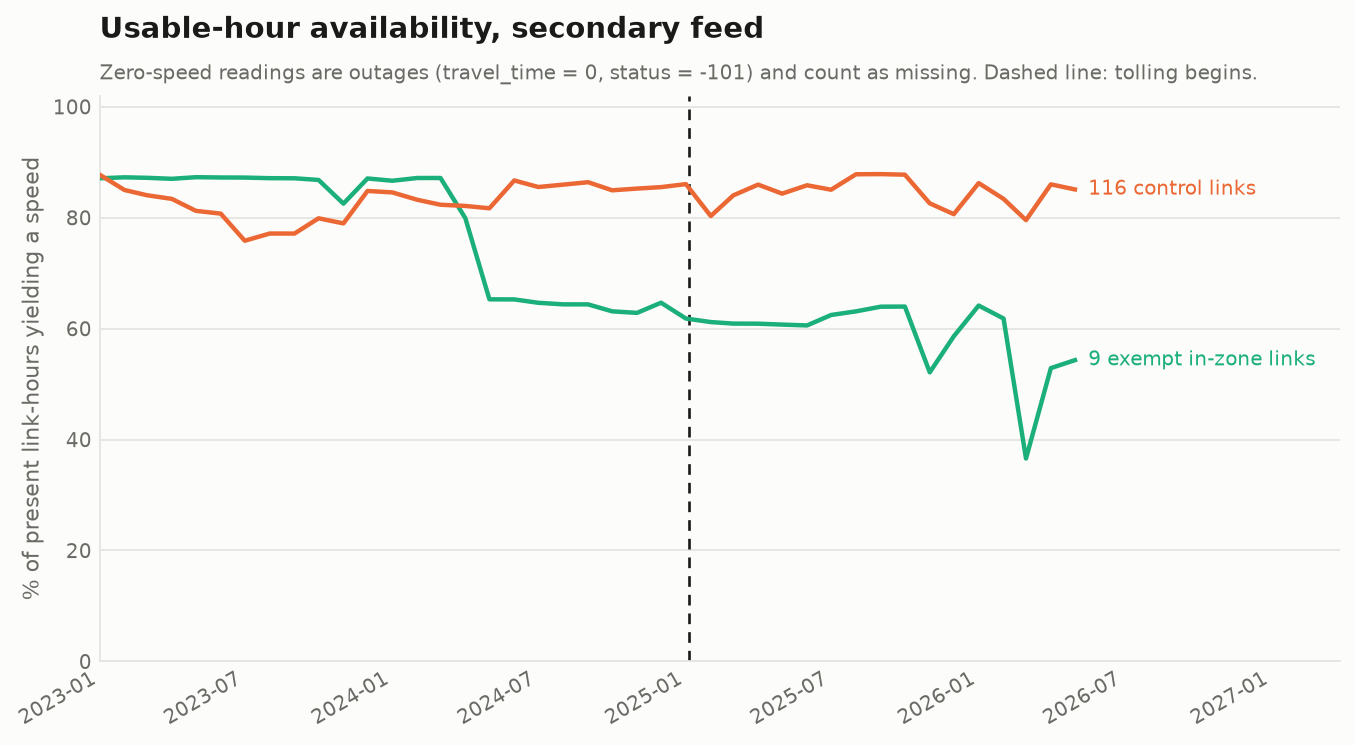
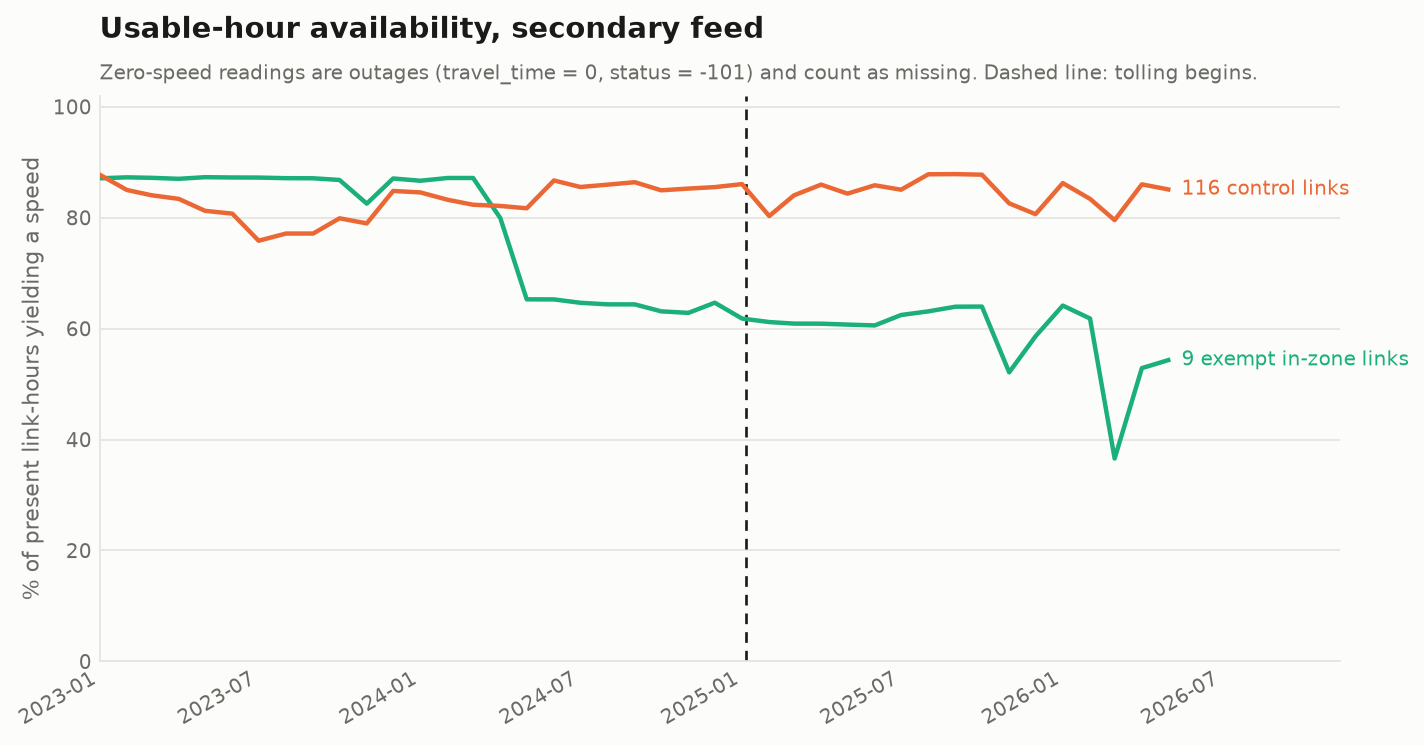
Drop a duplicated row from the H007 row accounting
Cosmetic; the totals already reconciled and are unchanged.

diff --git a/src/analysis/h007_diversion.py b/src/analysis/h007_diversion.py
@@ -443,7 +443,7 @@ def plot_availability(monthly: pd.DataFrame) -> None:
     # Room for the direct labels, which are the required relief for series that
     # would otherwise need a legend.
     last = monthly["month"].max()
-    ax.set_xlim(monthly["month"].min(), last + pd.Timedelta(days=330))
+    ax.set_xlim(monthly["month"].min(), last + pd.Timedelta(days=195))
     ax.set_facecolor(SURFACE)
     fig.set_facecolor(SURFACE)
     ax.grid(axis="y", color=GRID, linewidth=0.8, zorder=0)
